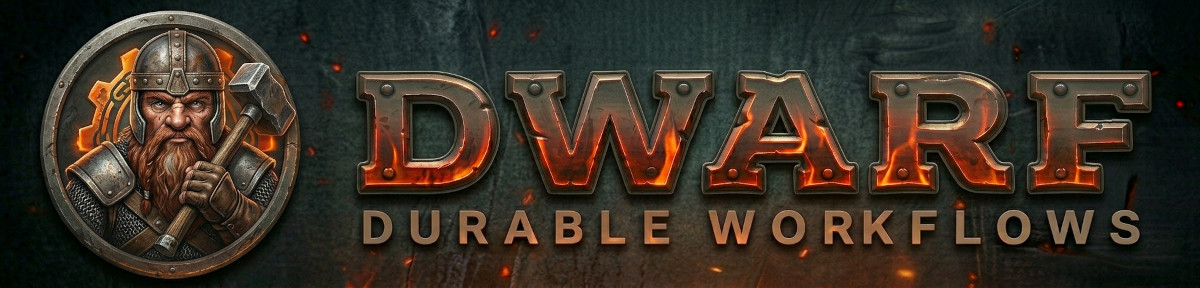
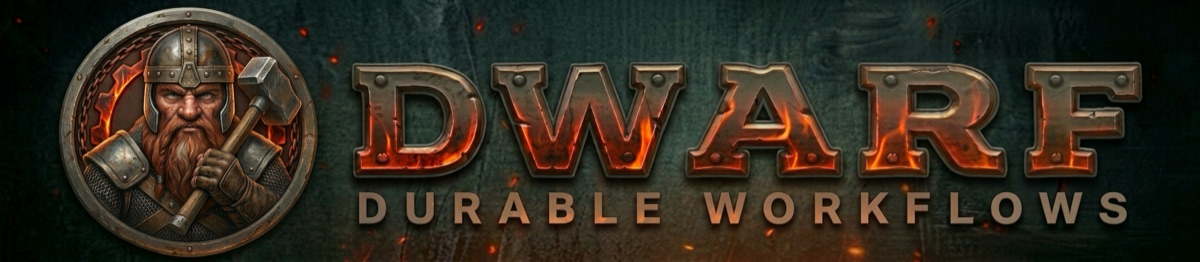
docs,workflow: diagram the graph guide and refresh the getting-started host
docs/graphs.md renders each transition kind as a mermaid diagram.
docs/getting-started.md names the example workflow apart from its entry node
and shows LoadGraph resolving a workflow URL. docs/deployment.md describes the
lost-transition crash window as repaired, not merely counted.
AddTransitionOnError's godoc states that it coexists with other transitions.
Shrink the banner image.

diff --git a/workflow/graph.go b/workflow/graph.go
@@ -257,8 +257,9 @@ func (g *Graph) AddTransitionForEach(from, to string, forEach string, as string)
 }
 
 // AddTransitionOnError adds a transition that is taken when the source task returns an error, instead of
-// failing the flow. It fires on ANY error - the engine never inspects the status code or the text - and it
-// preempts every other transition from that node, so it cannot combine with when/forEach/goto.
+// failing the flow. It fires on ANY error - the engine never inspects the status code or the text. When it
+// fires, none of the node's other outgoing transitions are evaluated; when the task succeeds, they are and
+// this one is not. A node may declare at most one onError transition, alongside any others.
 //
 // The error is delivered to the handler in the state field "onErr" (a structured error: message, status
 // code, trace id, properties; the stack frames are stripped).

diff --git a/docs/graphs.md b/docs/graphs.md
@@ -42,7 +42,23 @@ what runs next.
 
 ```go
 g.AddTransition("Reserve", "Charge")   // Reserve always -> Charge
+g.AddTransition("Charge", "Ship")      // Charge always -> Ship
 g.AddTransition("Ship", workflow.END)  // Ship ends the flow
+```
+
+```mermaid
+graph LR
+    classDef task fill:#32a7c1,color:#f4f2ef,stroke:#32a7c1
+    classDef term fill:#e5f4f3,color:#434343,stroke:#32a7c1
+    linkStyle default stroke:#32a7c1
+
+    t0["Reserve"]:::task
+    t1["Charge"]:::task
+    t2["Ship"]:::task
+    t0 --> t1
+    t1 --> t2
+    _start(( )):::term --> t0
+    t2 --> _end(( )):::term
 ```
 
 ### Conditional (`when`)
@@ -54,6 +70,22 @@ state fields:
 ```go
 g.AddTransitionWhen("Triage", "Escalate", "severity >= 3")
 g.AddTransitionWhen("Triage", "AutoResolve", "severity < 3")
+```
+
+```mermaid
+graph LR
+    classDef task fill:#32a7c1,color:#f4f2ef,stroke:#32a7c1
+    classDef term fill:#e5f4f3,color:#434343,stroke:#32a7c1
+    linkStyle default stroke:#32a7c1
+
+    t0["Triage"]:::task
+    t0_when{"when"}:::term
+    t1["Escalate"]:::task
+    t2["AutoResolve"]:::task
+    t0 --> t0_when
+    t0_when -->|"severity #gt;= 3"| t1
+    t0_when -->|"severity #lt; 3"| t2
+    _start(( )):::term --> t0
 ```
 
 If **several** `when` transitions match, **all** of them fire in parallel — that's a fan-out (see
@@ -71,6 +103,24 @@ g.AddTransitionSwitch("Router", "HandleMid", "amount >= 1000")
 g.AddTransitionSwitch("Router", "HandleLow", "true") // catch-all
 ```
 
+```mermaid
+graph LR
+    classDef task fill:#32a7c1,color:#f4f2ef,stroke:#32a7c1
+    classDef term fill:#e5f4f3,color:#434343,stroke:#32a7c1
+    linkStyle default stroke:#32a7c1
+
+    t0["Router"]:::task
+    t0_switch{"switch"}:::term
+    t1["HandleHigh"]:::task
+    t2["HandleMid"]:::task
+    t3["HandleLow"]:::task
+    t0 --> t0_switch
+    t0_switch -->|"amount #gt;= 10000"| t1
+    t0_switch -->|"amount #gt;= 1000"| t2
+    t0_switch -->|"default"| t3
+    _start(( )):::term --> t0
+```
+
 Because only one branch ever runs, switch branches need no fan-in. A node that uses switch transitions must
 declare *every* success-path outgoing edge as switch — the validator rejects mixing switch with
 when/plain/forEach from the same source. (Error and goto transitions are orthogonal and still allowed.)
@@ -84,6 +134,22 @@ an unconditional edge from the source to each destination — the convenience fo
 ```go
 // Verify, ScoreCredit, and FraudCheck all fire after Intake and run in parallel.
 g.AddTransitionFanOut("Intake", "Verify", "ScoreCredit", "FraudCheck")
+```
+
+```mermaid
+graph LR
+    classDef task fill:#32a7c1,color:#f4f2ef,stroke:#32a7c1
+    classDef term fill:#e5f4f3,color:#434343,stroke:#32a7c1
+    linkStyle default stroke:#32a7c1
+
+    t0["Intake"]:::task
+    t1["Verify"]:::task
+    t2["ScoreCredit"]:::task
+    t3["FraudCheck"]:::task
+    t0 --> t1
+    t0 --> t2
+    t0 --> t3
+    _start(( )):::term --> t0
 ```
 
 It creates only the outgoing edges; if the branches rejoin, the join node still needs `SetFanIn` (and
@@ -101,6 +167,18 @@ element, each receiving its element under the `as` key:
 g.AddTransitionForEach("Split", "Process", "lineItems", "item")
 ```
 
+```mermaid
+graph LR
+    classDef task fill:#32a7c1,color:#f4f2ef,stroke:#32a7c1
+    classDef term fill:#e5f4f3,color:#434343,stroke:#32a7c1
+    linkStyle default stroke:#32a7c1
+
+    t0["Split"]:::task
+    t1["Process"]:::task
+    t0 -->|"for each"| t1
+    _start(( )):::term --> t0
+```
+
 Each branch also gets `<as>Index` (its position) and `<as>Count` (the cohort size) injected. An empty
 array spawns nothing; if `forEach` is the only outgoing transition, an empty array ends the flow there.
 
@@ -114,6 +192,20 @@ g.AddTransitionGoto("Evaluate", "Retry")   // taken only if a task calls flow.Go
 g.AddTransitionGoto("Evaluate", "Finish")
 ```
 
+```mermaid
+graph LR
+    classDef task fill:#32a7c1,color:#f4f2ef,stroke:#32a7c1
+    classDef term fill:#e5f4f3,color:#434343,stroke:#32a7c1
+    linkStyle default stroke:#32a7c1
+
+    t0["Evaluate"]:::task
+    t1["Retry"]:::task
+    t2["Finish"]:::task
+    t0 -->|"goto"| t1
+    t0 -->|"goto"| t2
+    _start(( )):::term --> t0
+```
+
 See [`flow.Goto`](tasks.md#goto).
 
 ### Error handling (`onError`)
@@ -125,12 +217,45 @@ before failing the flow:
 g.AddTransitionOnError("Charge", "Refund") // any error from Charge -> Refund
 ```
 
+```mermaid
+graph LR
+    classDef task fill:#32a7c1,color:#f4f2ef,stroke:#32a7c1
+    classDef term fill:#e5f4f3,color:#434343,stroke:#32a7c1
+    linkStyle default stroke:#32a7c1
+
+    t0["Charge"]:::task
+    t1["Refund"]:::task
+    t0 -->|"onError"| t1
+    _start(( )):::term --> t0
+```
+
 The error from `Charge` routes to `Refund` rather than failing the flow. The error is serialized into the
 state field `onErr` (as a structured error the handler can read), the failed step is marked completed, and
-the handler runs next. If no `onError` handler is declared, the flow fails. An
-`onError` transition can't combine with `forEach`, `goto`, or `switch`. If the failing task was part of a
-fan-out, its siblings keep running — the errored branch continues down its handler path and the cohort
-converges normally.
+the handler runs next. If no `onError` handler is declared, the flow fails. If the failing task was part
+of a fan-out, its siblings keep running — the errored branch continues down its handler path and the
+cohort converges normally.
+
+A task can have an `onError` transition alongside its other outgoing transitions, at most one per task.
+The success path and the error path are simply separate transitions:
+
+```go
+g.AddTransitionForEach("Plan", "Search", "queries", "query") // success: one branch per query
+g.AddTransitionOnError("Plan", "Apologize")                  // failure: handle the error
+```
+
+```mermaid
+graph LR
+    classDef task fill:#32a7c1,color:#f4f2ef,stroke:#32a7c1
+    classDef term fill:#e5f4f3,color:#434343,stroke:#32a7c1
+    linkStyle default stroke:#32a7c1
+
+    t0["Plan"]:::task
+    t1["Search"]:::task
+    t2["Apologize"]:::task
+    t0 -->|"for each"| t1
+    t0 -->|"onError"| t2
+    _start(( )):::term --> t0
+```
 
 **An error voids the task's changes.** Anything the failing task wrote with `f.Set` before returning its
 error is discarded — the handler does not see it, and it never reaches the flow's final state. (Same on the
@@ -160,6 +285,22 @@ g.AddTransition("Process", "Summarize")
 g.SetFanIn("Summarize")                          // opts into fan-in validation
 g.SetReducer("results", workflow.ReducerAppend)  // each branch appends its result
 g.SetReducer("total", workflow.ReducerAdd)       // each branch adds its subtotal
+```
+
+```mermaid
+graph LR
+    classDef task fill:#32a7c1,color:#f4f2ef,stroke:#32a7c1
+    classDef term fill:#e5f4f3,color:#434343,stroke:#32a7c1
+    linkStyle default stroke:#32a7c1
+
+    t0["Split"]:::task
+    t1["Process"]:::task
+    t2["Summarize"]:::task
+    t2_reduce(("reduce")):::term
+    t2_reduce --> t2
+    t0 -->|"for each"| t1
+    t1 --> t2_reduce
+    _start(( )):::term --> t0
 ```
 
 A field with no reducer uses `replace` (last write wins). Remember: a task writes only its **delta** to a

diff --git a/docs/getting-started.md b/docs/getting-started.md
@@ -50,12 +50,12 @@ func TestGreeting(t *testing.T) {
 	proxy := engine.NewTestProxy()
 
 	// 1. Define a two-task graph: Greet -> Shout -> END.
-	g := workflow.NewGraph("Greet")
+	g := workflow.NewGraph("Welcome")
 	g.SetEndpoint("Greet", "greet") // node "Greet" dispatches to endpoint "greet"; first node bound is the entry point
 	g.SetEndpoint("Shout", "shout")
 	g.AddTransition("Greet", "Shout")
 	g.AddTransition("Shout", workflow.END)
-	proxy.HandleGraph("greet", g)
+	proxy.HandleGraph("welcome", g)
 
 	// 2. Register the tasks.
 	proxy.HandleTask("greet", func(ctx context.Context, f *workflow.Flow) error {
@@ -74,7 +74,7 @@ func TestGreeting(t *testing.T) {
 	eng.Startup(ctx)
 
 	// 4. Run a flow to completion.
-	_, out, err := eng.Run(ctx, "greet", map[string]any{"name": "ada"}, nil)
+	_, out, err := eng.Run(ctx, "welcome", map[string]any{"name": "ada"}, nil)
 	testarossa.NoError(t, err)
 	testarossa.Equal(t, workflow.StatusCompleted, out.Status)
 	testarossa.Equal(t, "HELLO ADA", out.State.GetString("message"))
@@ -91,16 +91,10 @@ database with `SetShard`, and manage its lifecycle explicitly. A standalone host
 two required methods:
 
 ```go
-type myHost struct {
-	graphs map[string]*workflow.Graph // your graph source
-}
+type myHost struct{}
 
-func (h *myHost) LoadGraph(ctx context.Context, name string) (*workflow.Graph, error) {
-	g, ok := h.graphs[name]
-	if !ok {
-		return nil, fmt.Errorf("unknown workflow %q", name)
-	}
-	return g, nil
+func (h *myHost) LoadGraph(ctx context.Context, workflowURL string) (*workflow.Graph, error) {
+	return fetch(ctx, workflowURL) // your registry / file / database / RPC
 }
 
 func (h *myHost) ExecuteTask(ctx context.Context, taskURL string, f *workflow.Flow) error {
@@ -113,7 +107,7 @@ That is the whole interface. Wire it up and start the engine:
 ```go
 eng := dwarf.NewEngine()
 eng.SetShard(engine.ShardSpec{Index: 1, DSN: "postgres://user:pass@db:5432/dwarf"})
-eng.SetHost(&myHost{graphs: loadGraphRegistry()})
+eng.SetHost(&myHost{})
 
 err := eng.Startup(ctx)
 if err != nil {

diff --git a/docs/deployment.md b/docs/deployment.md
@@ -409,10 +409,12 @@ replica runs again within `TimeBudget` + 30 s + 5 minutes. Steps that were pendi
 are picked up by the surviving replicas within seconds. Steps that aren't idempotent under re-dispatch
 should be written defensively: the engine guarantees at-least-once dispatch, not exactly-once.
 
-One crash window is detected rather than repaired. A replica that dies after recording a step as completed
-but before inserting the step that follows it leaves the flow `running` with every step finished and
-nothing left to dispatch. The engine counts these in `dwarf_flows_orphaned` and does not re-drive them;
-they need manual recovery, described in the
+One crash window is repaired differently. A replica that dies after recording a step as completed but
+before inserting the step that follows it leaves the flow `running` with nothing left to dispatch. Once
+the flow has been idle for 5 minutes and the step's lease has lapsed, the recovery sweep hands the step
+back, and dispatch creates its successor from the recorded output, without running the task again. These
+recoveries count in `dwarf_steps_recovered`. A flow the engine cannot repair this way counts in
+`dwarf_flows_orphaned` and needs manual recovery, described in the
 [Runbook](runbook.md#dwarf_flows_orphaned-is-non-zero).
 
 Next: [Testing](testing.md).
